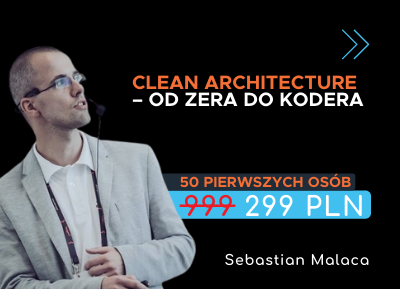
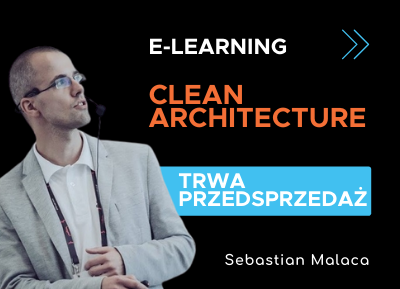
kurs malaca

Changed region(s): [[0.39, 0.5606, 0.93, 0.7785], [0.33, 0.2491, 0.93, 0.4671], [0.36, 0.1246, 0.72, 0.1869]]

diff --git a/_warsztaty/kurs_malaca.md b/_warsztaty/kurs_malaca.md
@@ -2,14 +2,14 @@
 # Data dodania informacji o wydarzeniu
 date: 2020-04-23
 # Data wydarzenia
-event_date: 2020-10-16
-title: "Clean Architecture – od zera do Kodera"
+event_date: 2020-10-31
+title: "Clean Architecture"
 lokalizacja: kursmalaca
 prowadzacy: cleanarchitecture
 evenea_link:
 type: meetup
 meetup_link: https://kursy.sages.pl/kursy/clean-architecture/
-cena: 50 pierwszych osób 299 PLN
+cena: trwa przedsprzedaż
 slideshare:
 opis:
   informacje: empty
